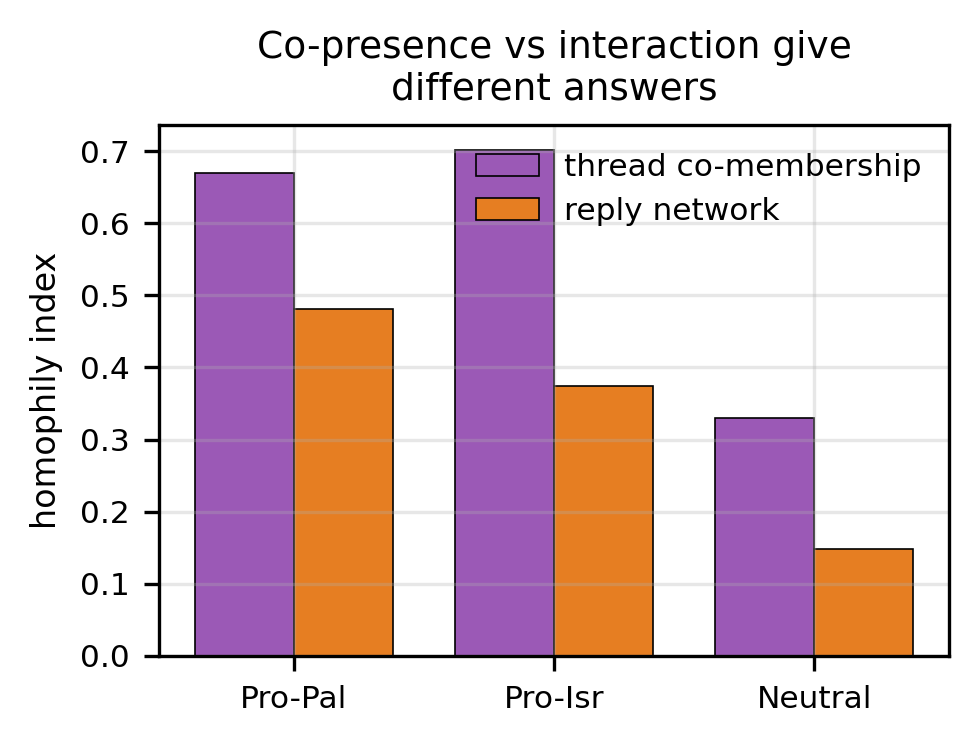
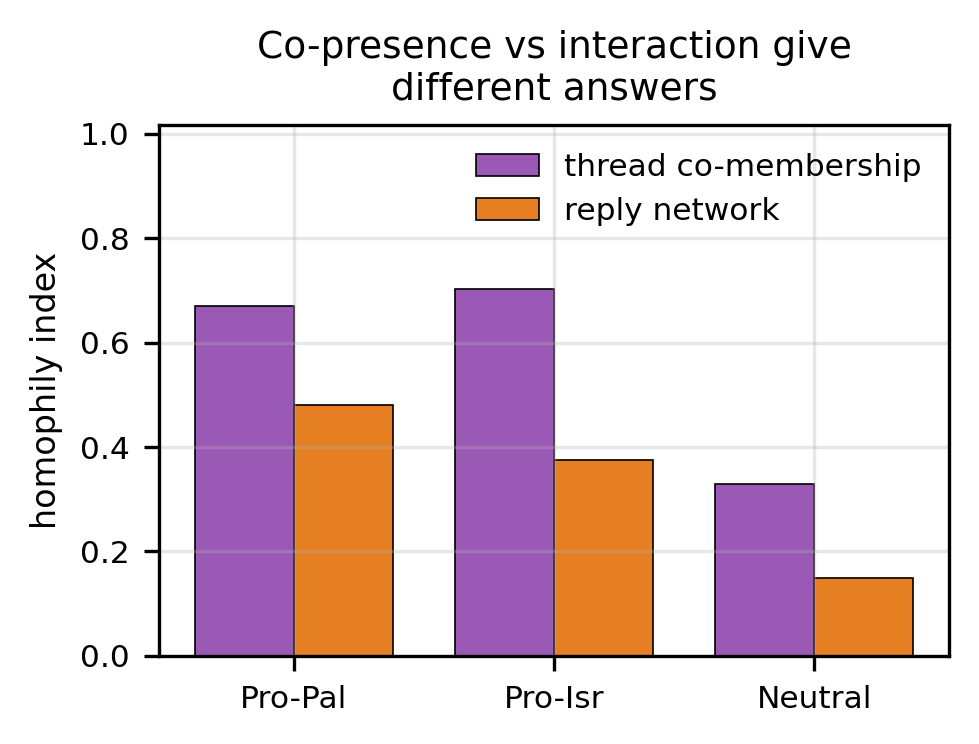
fix manuscript table and figure formatting

diff --git a/latex_script/preamble_patched.tex b/latex_script/preamble_patched.tex
@@ -1,0 +1,72 @@
+\documentclass[10pt,twocolumn]{article}
+
+% ---------- packages ----------
+\usepackage[T1]{fontenc}
+\usepackage[utf8]{inputenc}
+\usepackage[margin=0.75in,columnsep=0.28in]{geometry}
+\usepackage{graphicx}
+\usepackage{float}
+\usepackage{booktabs}
+\usepackage{caption}
+\usepackage{amsmath}
+\usepackage[expansion=false]{microtype}
+\usepackage{xcolor}
+\usepackage{titlesec}
+\usepackage[hidelinks]{hyperref}
+\usepackage{stfloats}   % allow figure* / table* at bottom
+\usepackage{enumitem}
+\usepackage{authblk}
+
+% ---------- styling ----------
+\captionsetup{font=small,labelfont=bf,skip=4pt}
+\setlength{\parindent}{1em}
+\setlength{\parskip}{1pt}
+\graphicspath{{paperfigs/}}
+
+% ---------- IEEE-style headings ----------
+\renewcommand{\thesection}{\Roman{section}}
+\renewcommand{\thesubsection}{\Alph{subsection}}
+\titleformat{\section}[block]{\centering\normalsize\scshape\bfseries}{\thesection.}{0.5em}{}
+\titleformat{\subsection}[block]{\normalsize\bfseries}{\thesubsection.}{0.5em}{}
+\titleformat{\subsubsection}[block]{\normalsize\bfseries\itshape}{}{0em}{}
+\titlespacing*{\section}{0pt}{10pt}{4pt}
+\titlespacing*{\subsection}{0pt}{7pt}{2pt}
+\titlespacing*{\subsubsection}{0pt}{5pt}{1pt}
+
+\renewcommand{\arraystretch}{1.15}
+
+% ---------- float placement (avoid sparse/empty pages) ----------
+\renewcommand{\topfraction}{0.92}
+\renewcommand{\bottomfraction}{0.7}
+\renewcommand{\textfraction}{0.06}
+\renewcommand{\floatpagefraction}{0.78}
+\renewcommand{\dbltopfraction}{0.92}
+\renewcommand{\dblfloatpagefraction}{0.78}
+\setcounter{topnumber}{3}
+\setcounter{bottomnumber}{2}
+\setcounter{totalnumber}{5}
+\setcounter{dbltopnumber}{2}
+
+% tighten the vertical space floats consume
+\setlength{\textfloatsep}{9pt plus 2pt minus 2pt}
+\setlength{\floatsep}{8pt plus 2pt minus 2pt}
+\setlength{\intextsep}{8pt plus 2pt minus 2pt}
+\setlength{\dblfloatsep}{8pt plus 2pt minus 2pt}
+\setlength{\dbltextfloatsep}{9pt plus 2pt minus 2pt}
+
+% ---------- title ----------
+\title{\vspace{-1.2em}\textbf{The Digital Frontline: A Comprehensive Analysis of\\
+Israel--Hamas Discourse}\\[0.25em]
+\large A Comparative Study of Reddit and YouTube}
+
+\author[1]{Akshat Gupta}
+\author[1]{Raghav Sarna}
+\author[1]{Arsh Arora}
+\affil[1]{\normalsize Department of Computer Science \& Artificial Intelligence,
+Plaksha University, Mohali, Punjab 140306, India}
+\date{June 7, 2026}
+
+% avoid vertical stretching that leaves large gaps between blocks
+
+\raggedbottom
+

diff --git a/latex_script/paper.tex b/latex_script/paper.tex
@@ -66,6 +66,10 @@ Israel--Hamas Discourse}\\[0.25em]
 Plaksha University, Mohali, Punjab 140306, India}
 \date{June 7, 2026}
 
+% avoid vertical stretching that leaves large gaps between blocks
+
+\raggedbottom
+
 \begin{document}
 \twocolumn[
   \begin{@twocolumnfalse}
@@ -297,11 +301,11 @@ intervals span roughly $\pm0.1$ percentage points, so sampling error is negligib
 and the operative uncertainty is annotation error, which
 Section~\ref{sec:validation} addresses.
 
-\begin{table}[H]
+\begin{table*}[t]
   \centering
   \small
   \caption{Corpus construction and final stance composition (matched window,
-  automated accounts removed), with bootstrapped 95\% CIs.}
+  automated accounts removed). Stance shares carry bootstrapped 95\% CIs.}
   \label{tab:data}
   \begin{tabular}{lrr}
     \toprule
@@ -312,15 +316,12 @@ Section~\ref{sec:validation} addresses.
     After matched window              & 1{,}067{,}904 & 378{,}267 \\
     After removing automated accounts & \textbf{1{,}004{,}629} & \textbf{378{,}267} \\
     \midrule
-    \quad Pro-Palestine (P) & 455{,}709 & 212{,}217 \\
-    \quad \emph{share}      & 45.36\% [45.26, 45.46] & 56.10\% [55.94, 56.26] \\
-    \quad Pro-Israel (I)    & 362{,}340 & 131{,}357 \\
-    \quad \emph{share}      & 36.07\% [35.97, 36.16] & 34.73\% [34.57, 34.88] \\
-    \quad Neutral (N)       & 186{,}580 & 34{,}693 \\
-    \quad \emph{share}      & 18.57\% [18.50, 18.65] & 9.17\% [9.08, 9.27] \\
+    Pro-Palestine (P) & 455{,}709 \quad 45.36\% [45.26, 45.46] & 212{,}217 \quad 56.10\% [55.94, 56.26] \\
+    Pro-Israel (I)    & 362{,}340 \quad 36.07\% [35.97, 36.16] & 131{,}357 \quad 34.73\% [34.57, 34.88] \\
+    Neutral (N)       & 186{,}580 \quad 18.57\% [18.50, 18.65] & \phantom{0}34{,}693 \quad \phantom{0}9.17\% [\phantom{0}9.08, \phantom{0}9.27] \\
     \bottomrule
   \end{tabular}
-\end{table}
+\end{table*}
 
 \begin{figure}[H]
   \centering

diff --git a/latex_script/body_new.tex b/latex_script/body_new.tex
@@ -229,11 +229,11 @@ intervals span roughly $\pm0.1$ percentage points, so sampling error is negligib
 and the operative uncertainty is annotation error, which
 Section~\ref{sec:validation} addresses.
 
-\begin{table}[H]
+\begin{table*}[t]
   \centering
   \small
   \caption{Corpus construction and final stance composition (matched window,
-  automated accounts removed), with bootstrapped 95\% CIs.}
+  automated accounts removed). Stance shares carry bootstrapped 95\% CIs.}
   \label{tab:data}
   \begin{tabular}{lrr}
     \toprule
@@ -244,15 +244,12 @@ Section~\ref{sec:validation} addresses.
     After matched window              & 1{,}067{,}904 & 378{,}267 \\
     After removing automated accounts & \textbf{1{,}004{,}629} & \textbf{378{,}267} \\
     \midrule
-    \quad Pro-Palestine (P) & 455{,}709 & 212{,}217 \\
-    \quad \emph{share}      & 45.36\% [45.26, 45.46] & 56.10\% [55.94, 56.26] \\
-    \quad Pro-Israel (I)    & 362{,}340 & 131{,}357 \\
-    \quad \emph{share}      & 36.07\% [35.97, 36.16] & 34.73\% [34.57, 34.88] \\
-    \quad Neutral (N)       & 186{,}580 & 34{,}693 \\
-    \quad \emph{share}      & 18.57\% [18.50, 18.65] & 9.17\% [9.08, 9.27] \\
+    Pro-Palestine (P) & 455{,}709 \quad 45.36\% [45.26, 45.46] & 212{,}217 \quad 56.10\% [55.94, 56.26] \\
+    Pro-Israel (I)    & 362{,}340 \quad 36.07\% [35.97, 36.16] & 131{,}357 \quad 34.73\% [34.57, 34.88] \\
+    Neutral (N)       & 186{,}580 \quad 18.57\% [18.50, 18.65] & \phantom{0}34{,}693 \quad \phantom{0}9.17\% [\phantom{0}9.08, \phantom{0}9.27] \\
     \bottomrule
   \end{tabular}
-\end{table}
+\end{table*}
 
 \begin{figure}[H]
   \centering

diff --git a/06_revision/make_figs.py b/06_revision/make_figs.py
@@ -67,6 +67,7 @@ save(fig, "f01_stance_ci.png")
 
 # ---------------------------------------------------------------- 2. sentiment (R1/R11)
 fig, axes = plt.subplots(1, 2, figsize=(FULL, 2.4))
+fig.subplots_adjust(wspace=0.30)
 d = bf["sentiment"]["by_stance"]
 for ax, plat in zip(axes, ["reddit", "youtube"]):
     m = d[plat]["means"]
@@ -138,8 +139,9 @@ ax.bar(xx + 0.19, [rp[s] for s in STANCES], 0.38, label="reply network",
        color="#e67e22", edgecolor="black", linewidth=0.4)
 ax.set_xticks(xx); ax.set_xticklabels([SHORT[s] for s in STANCES])
 ax.set_ylabel("homophily index")
+ax.set_ylim(0, max(max(th.values()), max(rp.values())) * 1.45)
 ax.set_title("Co-presence vs interaction give\ndifferent answers")
-ax.legend(frameon=False)
+ax.legend(frameon=False, loc="upper right")
 save(fig, "f05_homophily_compare.png")
 
 # ---------------------------------------------------------------- 6. joint sentiment x toxicity (R2)

diff --git a/latex_script/fix_table.py b/latex_script/fix_table.py
@@ -1,0 +1,26 @@
+# -*- coding: utf-8 -*-
+"""Repair the Table 1 block in body_new.tex: restore '\\\\' row terminators."""
+from pathlib import Path
+
+BS = chr(92)  # backslash
+p = Path(__file__).resolve().parent / "body_new.tex"
+t = p.read_text(encoding="utf-8")
+
+start = t.index(BS + "begin{table*}[t]")
+end = t.index(BS + "end{table*}", start) + len(BS + "end{table*}")
+block = t[start:end]
+
+fixed_lines = []
+for line in block.splitlines():
+    stripped = line.rstrip()
+    # a tabular row ends with a single backslash -> must be a double backslash
+    if stripped.endswith(BS) and not stripped.endswith(BS + BS):
+        stripped = stripped[:-1] + BS + BS
+    fixed_lines.append(stripped)
+fixed = "\n".join(fixed_lines)
+
+t = t[:start] + fixed + t[end:]
+p.write_text(t, encoding="utf-8")
+
+n = sum(1 for l in fixed.splitlines() if l.rstrip().endswith(BS + BS))
+print(f"repaired {n} row terminators in Table 1")

diff --git a/latex_script/assemble.py b/latex_script/assemble.py
@@ -5,11 +5,15 @@ from pathlib import Path
 HERE = Path(__file__).resolve().parent
 MARKER = r"\begin{document}"
 
-src = (HERE / "paper.tex.bak").read_text(encoding="utf-8")
-idx = src.find(MARKER)
-if idx == -1:
-    raise SystemExit("marker not found in paper.tex.bak")
-preamble = src[:idx]
+patched = HERE / "preamble_patched.tex"
+if patched.exists():
+    preamble = patched.read_text(encoding="utf-8")
+else:
+    src = (HERE / "paper.tex.bak").read_text(encoding="utf-8")
+    idx = src.find(MARKER)
+    if idx == -1:
+        raise SystemExit("marker not found in paper.tex.bak")
+    preamble = src[:idx]
 
 body = (HERE / "body_new.tex").read_text(encoding="utf-8")
 if not body.lstrip().startswith(MARKER):
